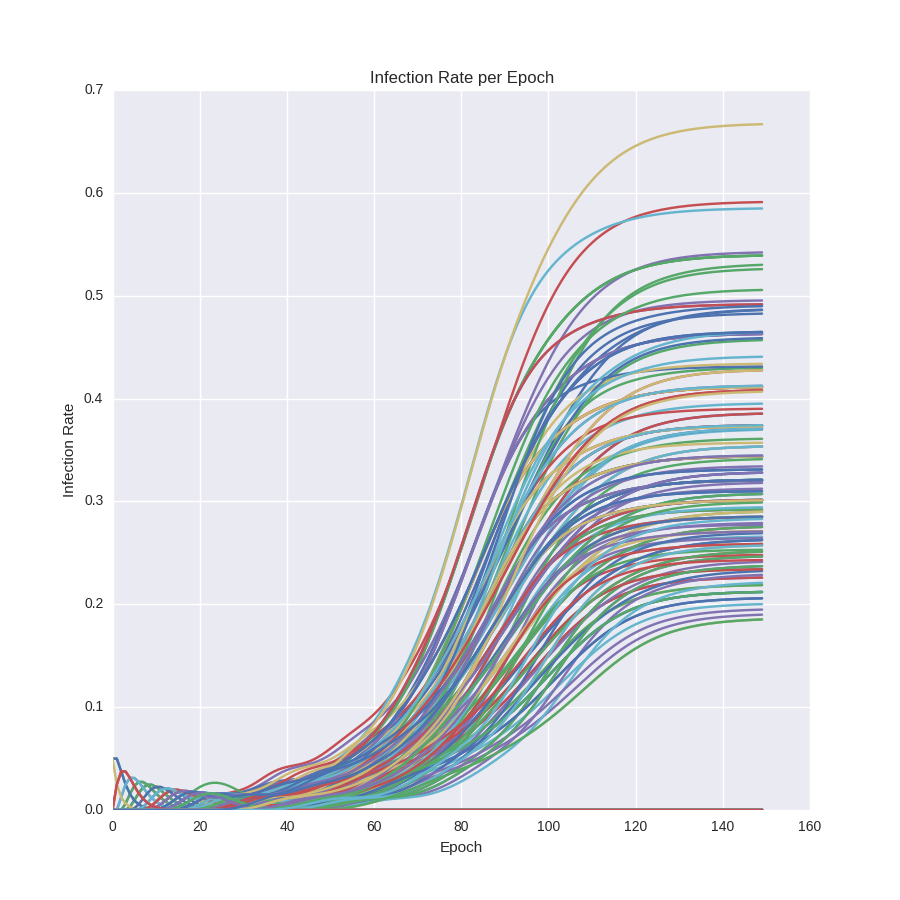
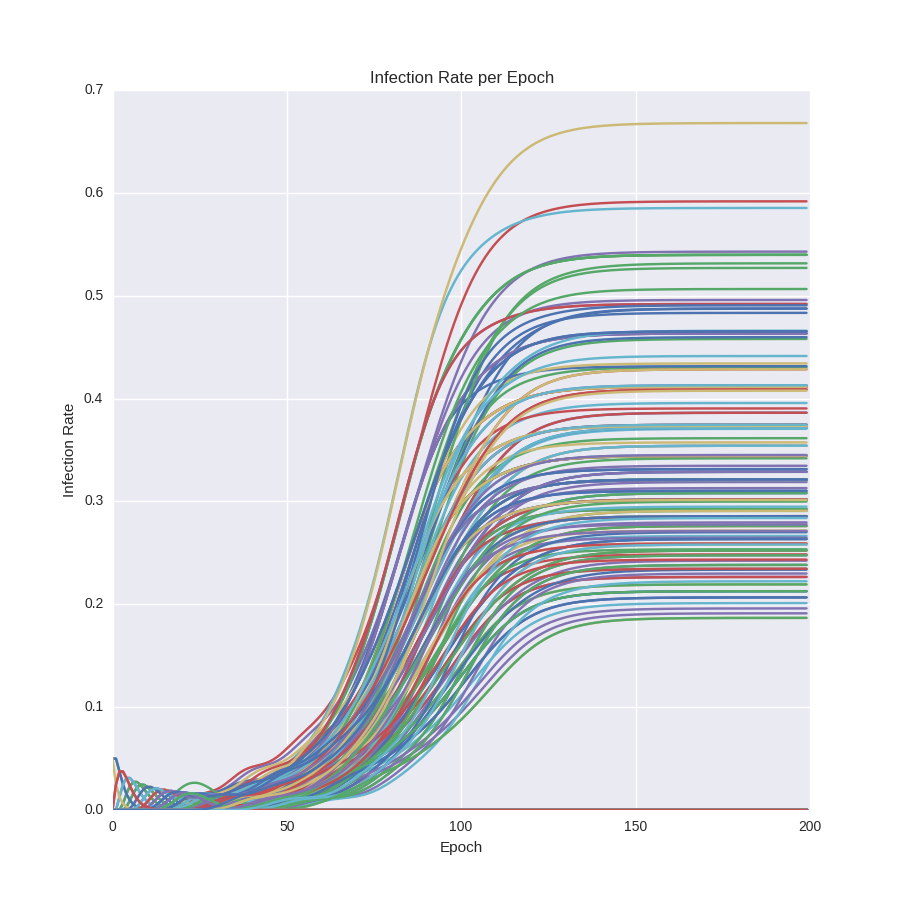
firsties

diff --git a/trades.py b/trades.py
@@ -74,6 +74,6 @@ if __name__ == "__main__":
     T = transmission(G)
     P = np.zeros(len(N))
     P[160] = .1 # some place gets sick
-    H = iterpulse(T, P, 150)  
+    H = iterpulse(T, P, 200)  
     plot(H) 
     graph(G, N, H)
